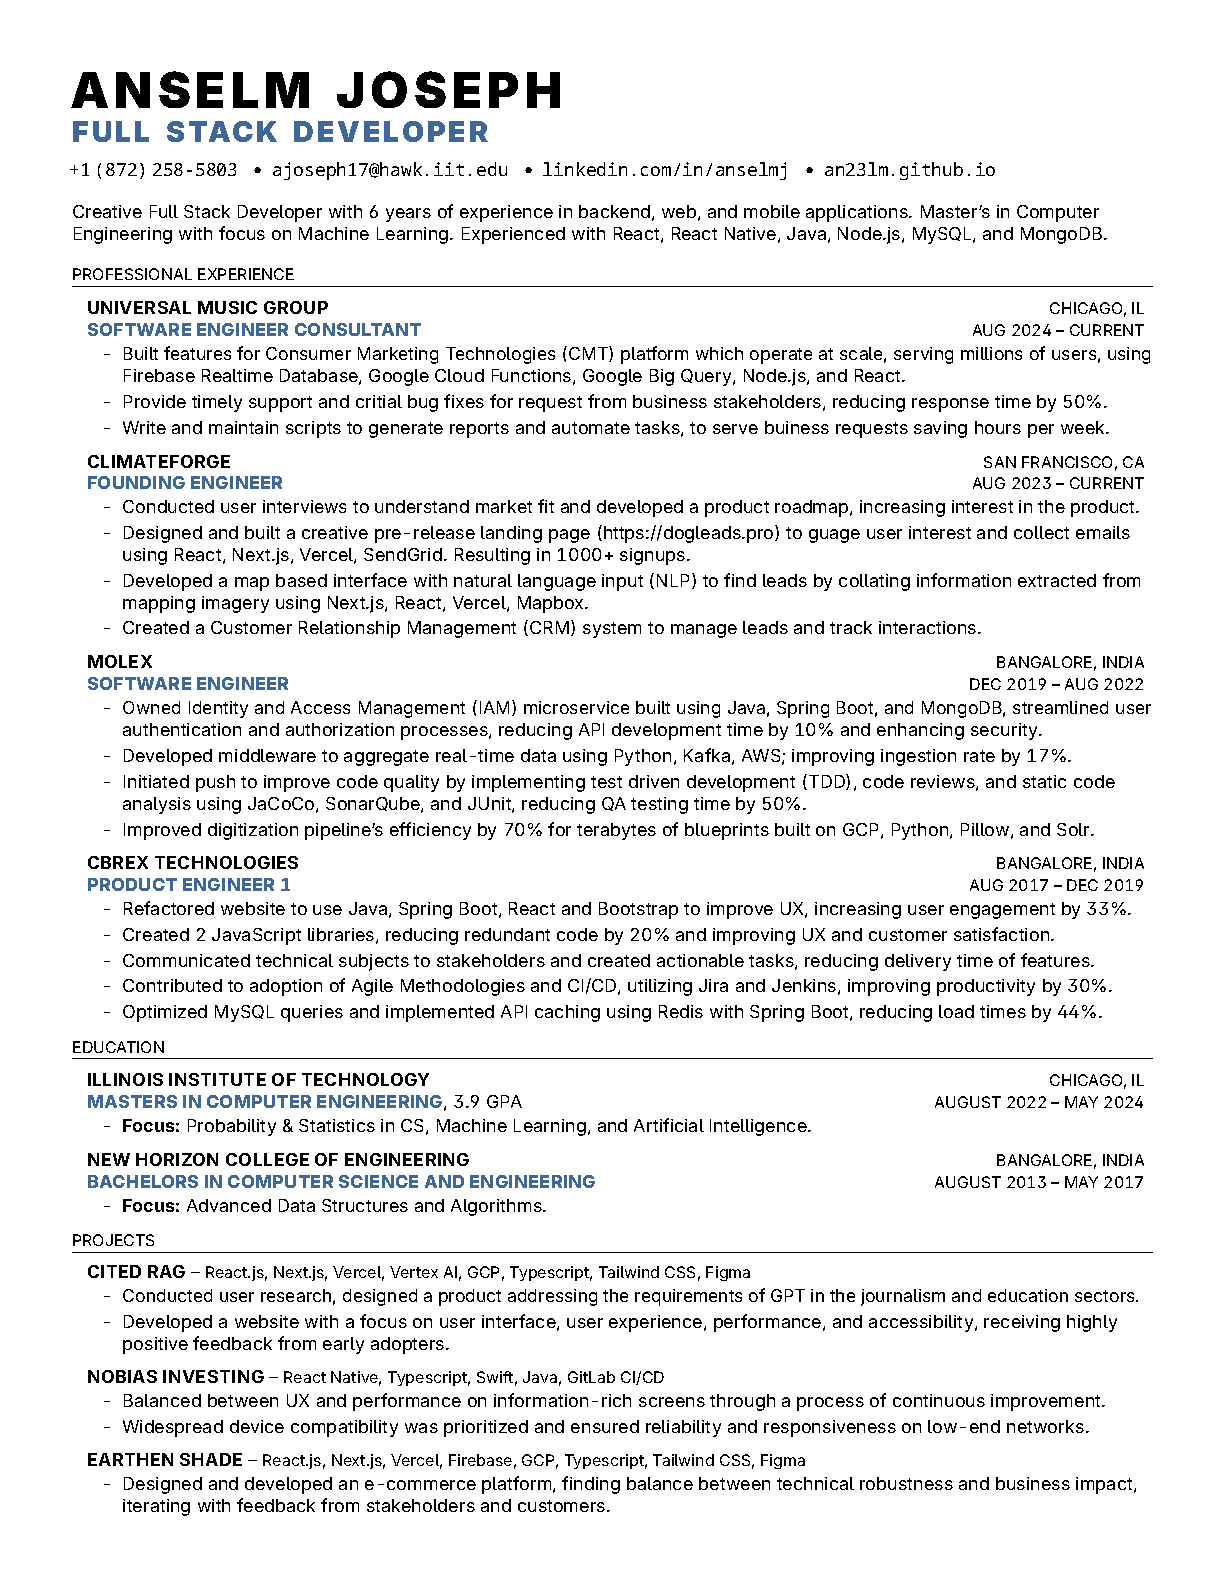
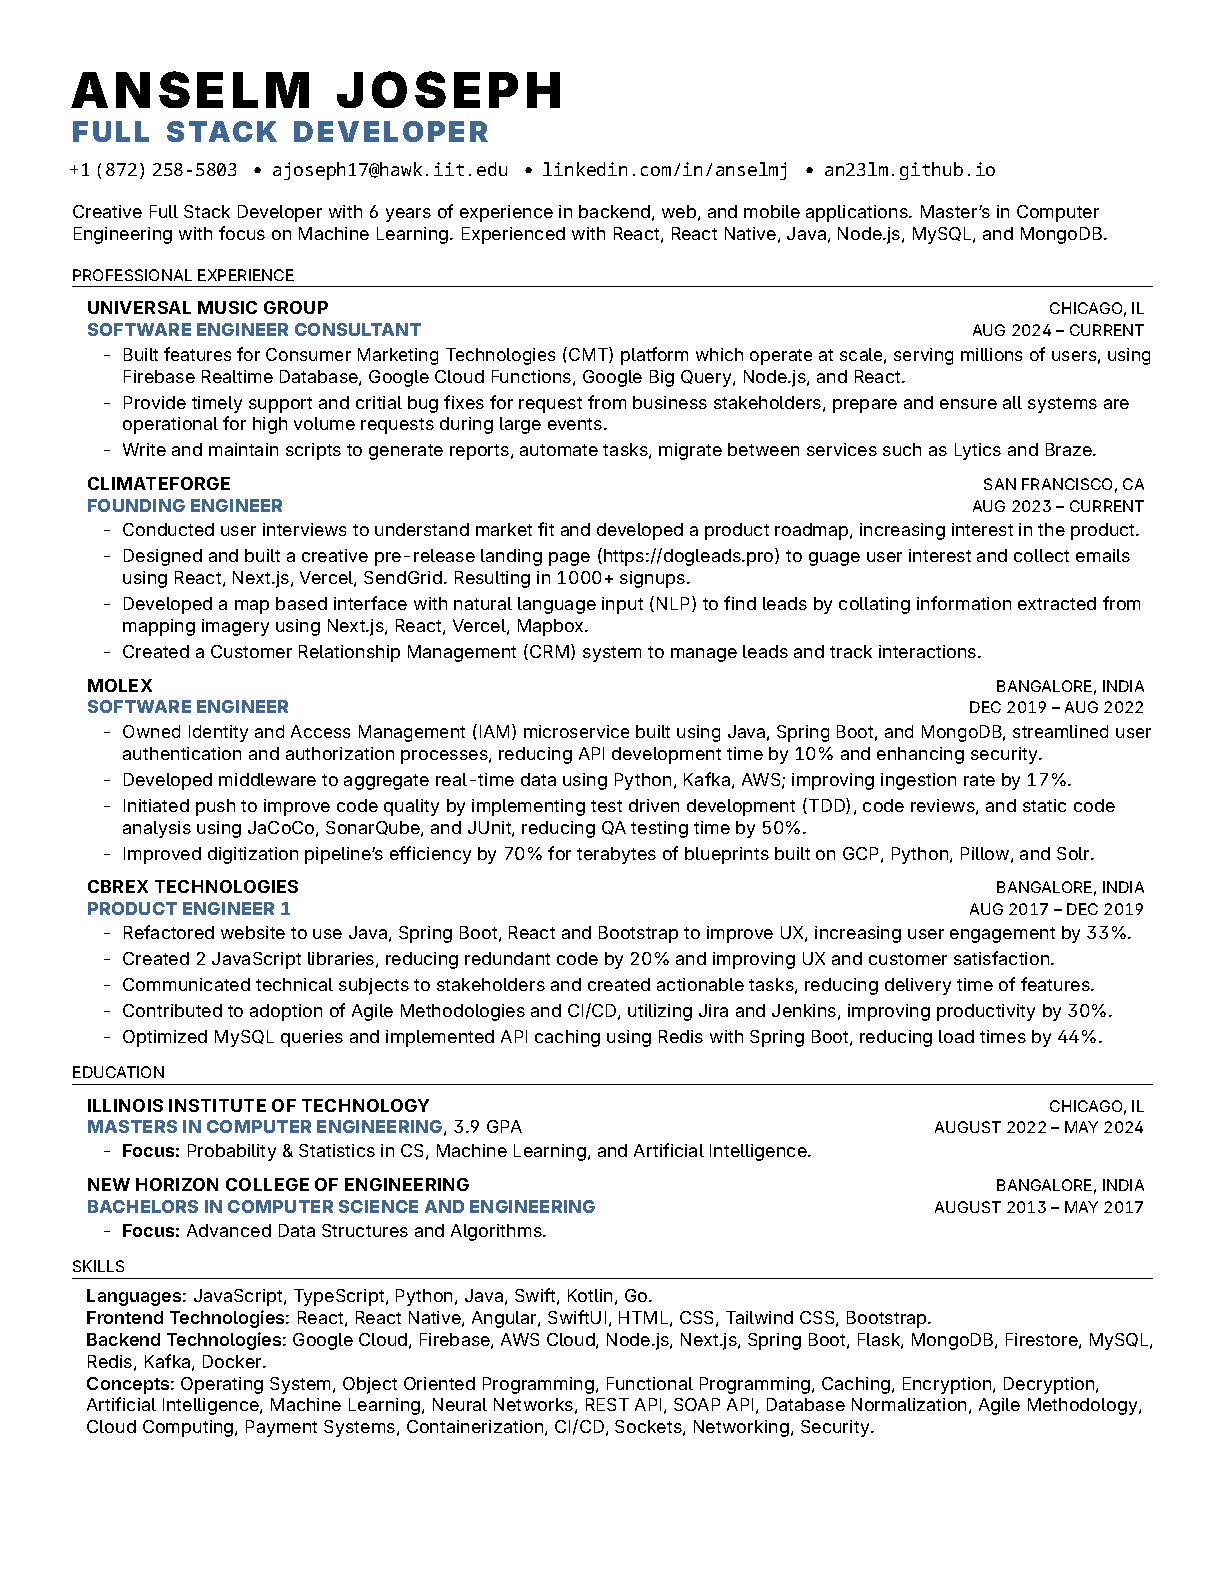
back to one page

Changed region(s): [[0.0621, 0.2165, 0.9314, 0.959]]

diff --git a/components/experience.tex b/components/experience.tex
@@ -8,8 +8,8 @@
     {Software Engineer Consultant}{}{Aug 2024 -- Current}
     \resumeItemListStart
         \resumeItem{Built features for Consumer Marketing Technologies (CMT) platform which operate at scale, serving millions of users, using Firebase Realtime Database, Google Cloud Functions, Google Big Query, Node.js, and React.}
-        \resumeItem{Provide timely support and critial bug fixes for request from business stakeholders, reducing response time by 50\%.}
-        \resumeItem{Write and maintain scripts to generate reports and automate tasks, to serve buiness requests saving hours per week.}
+        \resumeItem{Provide timely support and critial bug fixes for request from business stakeholders, prepare and ensure all systems are operational for high volume requests during large events.}
+        \resumeItem{Write and maintain scripts to generate reports, automate tasks, migrate between services such as Lytics and Braze.}
     \resumeItemListEnd
 
     \resumeSubheading

diff --git a/resume.tex b/resume.tex
@@ -15,7 +15,7 @@
 
         \input{components/education}
 
-        \input{components/projects}
+        % \input{components/projects}
 
         \input{components/skills}
     
